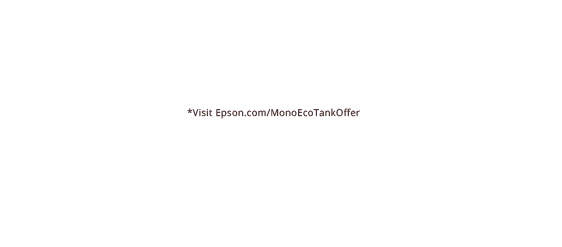
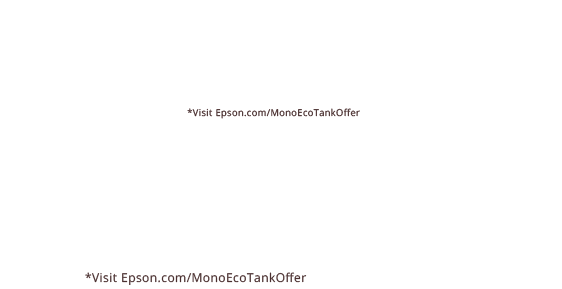
updates

Changed region(s): [[0.3327, 0.3684, 0.6352, 0.4818], [0.1512, 0.9352, 0.5445, 0.9919]]

diff --git a/demopage/mono/img/728x90_mono/index.html b/demopage/mono/img/728x90_mono/index.html
@@ -49,7 +49,7 @@
 		#ctaBtn {
 			position: absolute;
 			top: 28px;
-			left: 468px;
+			left: 488px;
 			width: 117px;
 			height: 38px;
 			background-color: #d3041f;
@@ -152,7 +152,7 @@
 		#printer_03 {
 			position: absolute;
 			top: -20px;
-			left: -125px;
+			left: -135px;
 			opacity: 0;
 			transform: scale(0.62);
 			-webkit-font-smoothing: antialiased;
@@ -199,8 +199,8 @@
 		#txt_tagline_02 {
 			position: absolute;
 			/* clip: rect(50px,400px,250px,0px); */
-			top: -180px;
-			left: 120px;
+			top: -205px;
+			left: 100px;
 			opacity: 0;	
 			-webkit-font-smoothing: antialiased;
 		}
@@ -401,9 +401,9 @@
 
 						
 						// .to(top_white, 0.5, {opacity:1, ease: Power1.easeOut},"-=0.5")
-						.to(shaq_05, 0.5, {opacity:1, left:"605px", ease: Power1.easeOut})
+						.to(shaq_05, 0.5, {opacity:1, left:"630px", ease: Power1.easeOut})
 						
-						.to(printer_03, 0.5, {opacity:1, left:"0px", ease: Power1.easeOut},"-=0.5")
+						.to(printer_03, 0.5, {opacity:1, left:"-15px", ease: Power1.easeOut},"-=0.5")
 						.to(txt_tagline_02, 0.5, {opacity:1, ease: Power1.easeOut})
 
 						.to(ctaBtn, 0.5, {opacity:1, ease: Power1.easeOut})
